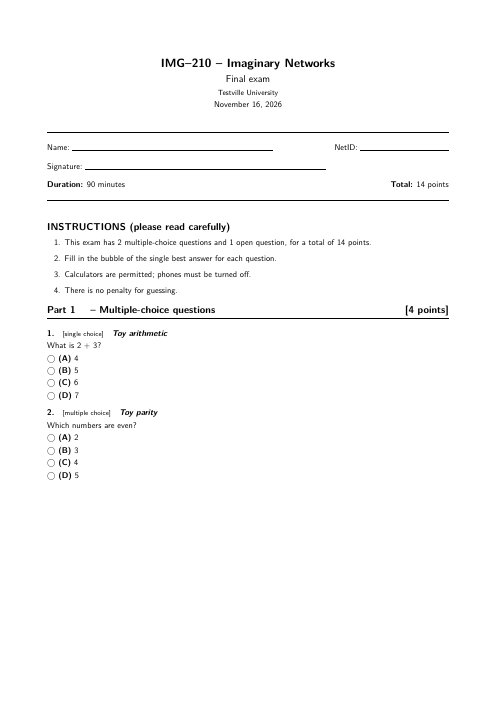
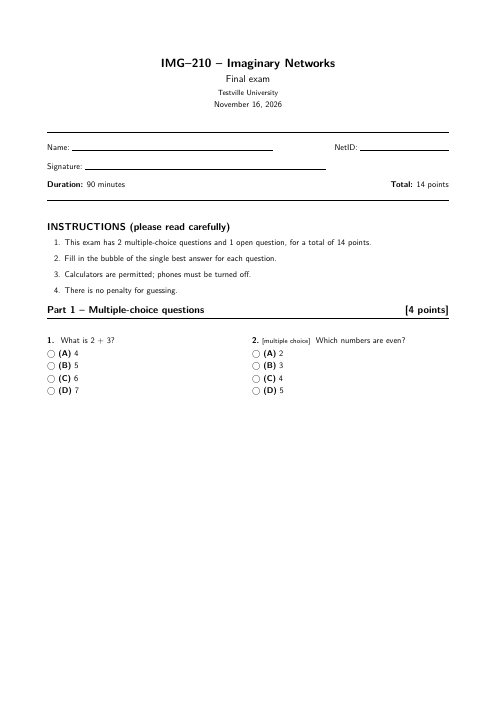
ExamLayout : captures avant et après du suivi sur le QCM américain fictif

Changed region(s): [[0.0905, 0.4188, 0.4225, 0.688], [0.5131, 0.4786, 0.8149, 0.5684]]

diff --git a/cortex/docs/examlayout/README.md b/cortex/docs/examlayout/README.md
@@ -21,8 +21,15 @@ npx tsx scripts/examlayout-captures.ts docs/examlayout
 
 Relevé : police sans empattements en 10 pt, cours en haut à gauche, « Page n of N » en bas au
 centre, questions numérotées sans mot (« 1. »), options « (A) » à bulles l'une sous l'autre, aucun
-barème par question, champs `Name:` / `NetID:` / `Signature:`, les trois consignes. La page 2
-de Cortex est la question ouverte de l'examen fictif, que l'annale n'a pas.
+barème par question, questions sur deux colonnes sans étiquette de type ni thème, champs
+`Name:` / `NetID:` / `Signature:`, les trois consignes. La page 2 de Cortex est la question
+ouverte de l'examen fictif, que l'annale n'a pas.
+
+Avant et après le suivi (annale, rendu de #144, rendu actuel) : QCM sur deux colonnes comme
+l'annale, plus d'étiquette « [single choice] » ni de thème (un choix multiple reste annoncé, sinon
+rien ne dit qu'il a plusieurs réponses), « Part 1 – » sans l'espace en trop.
+
+![](us-mcq-avant-apres.png)
 
 ## Examen anglais à rédaction
 
